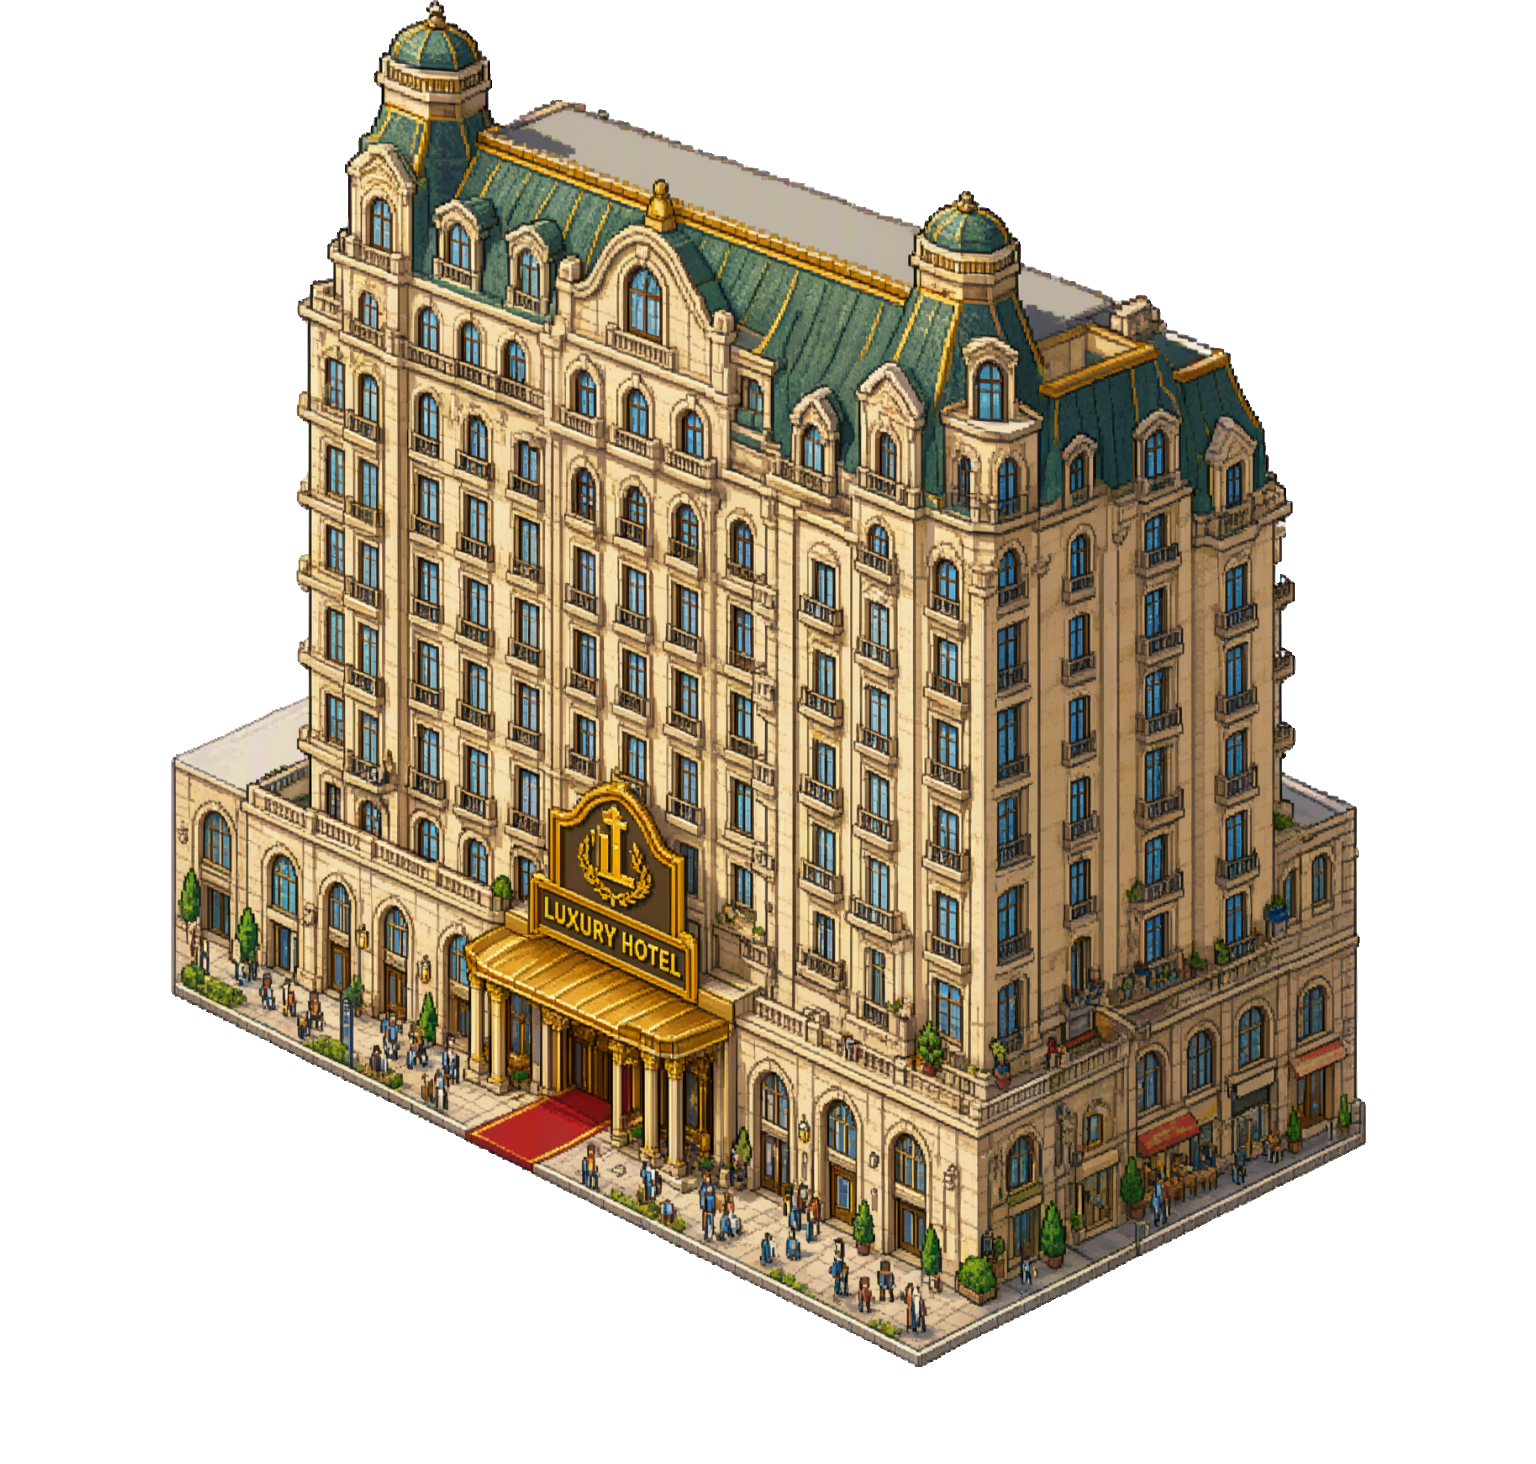
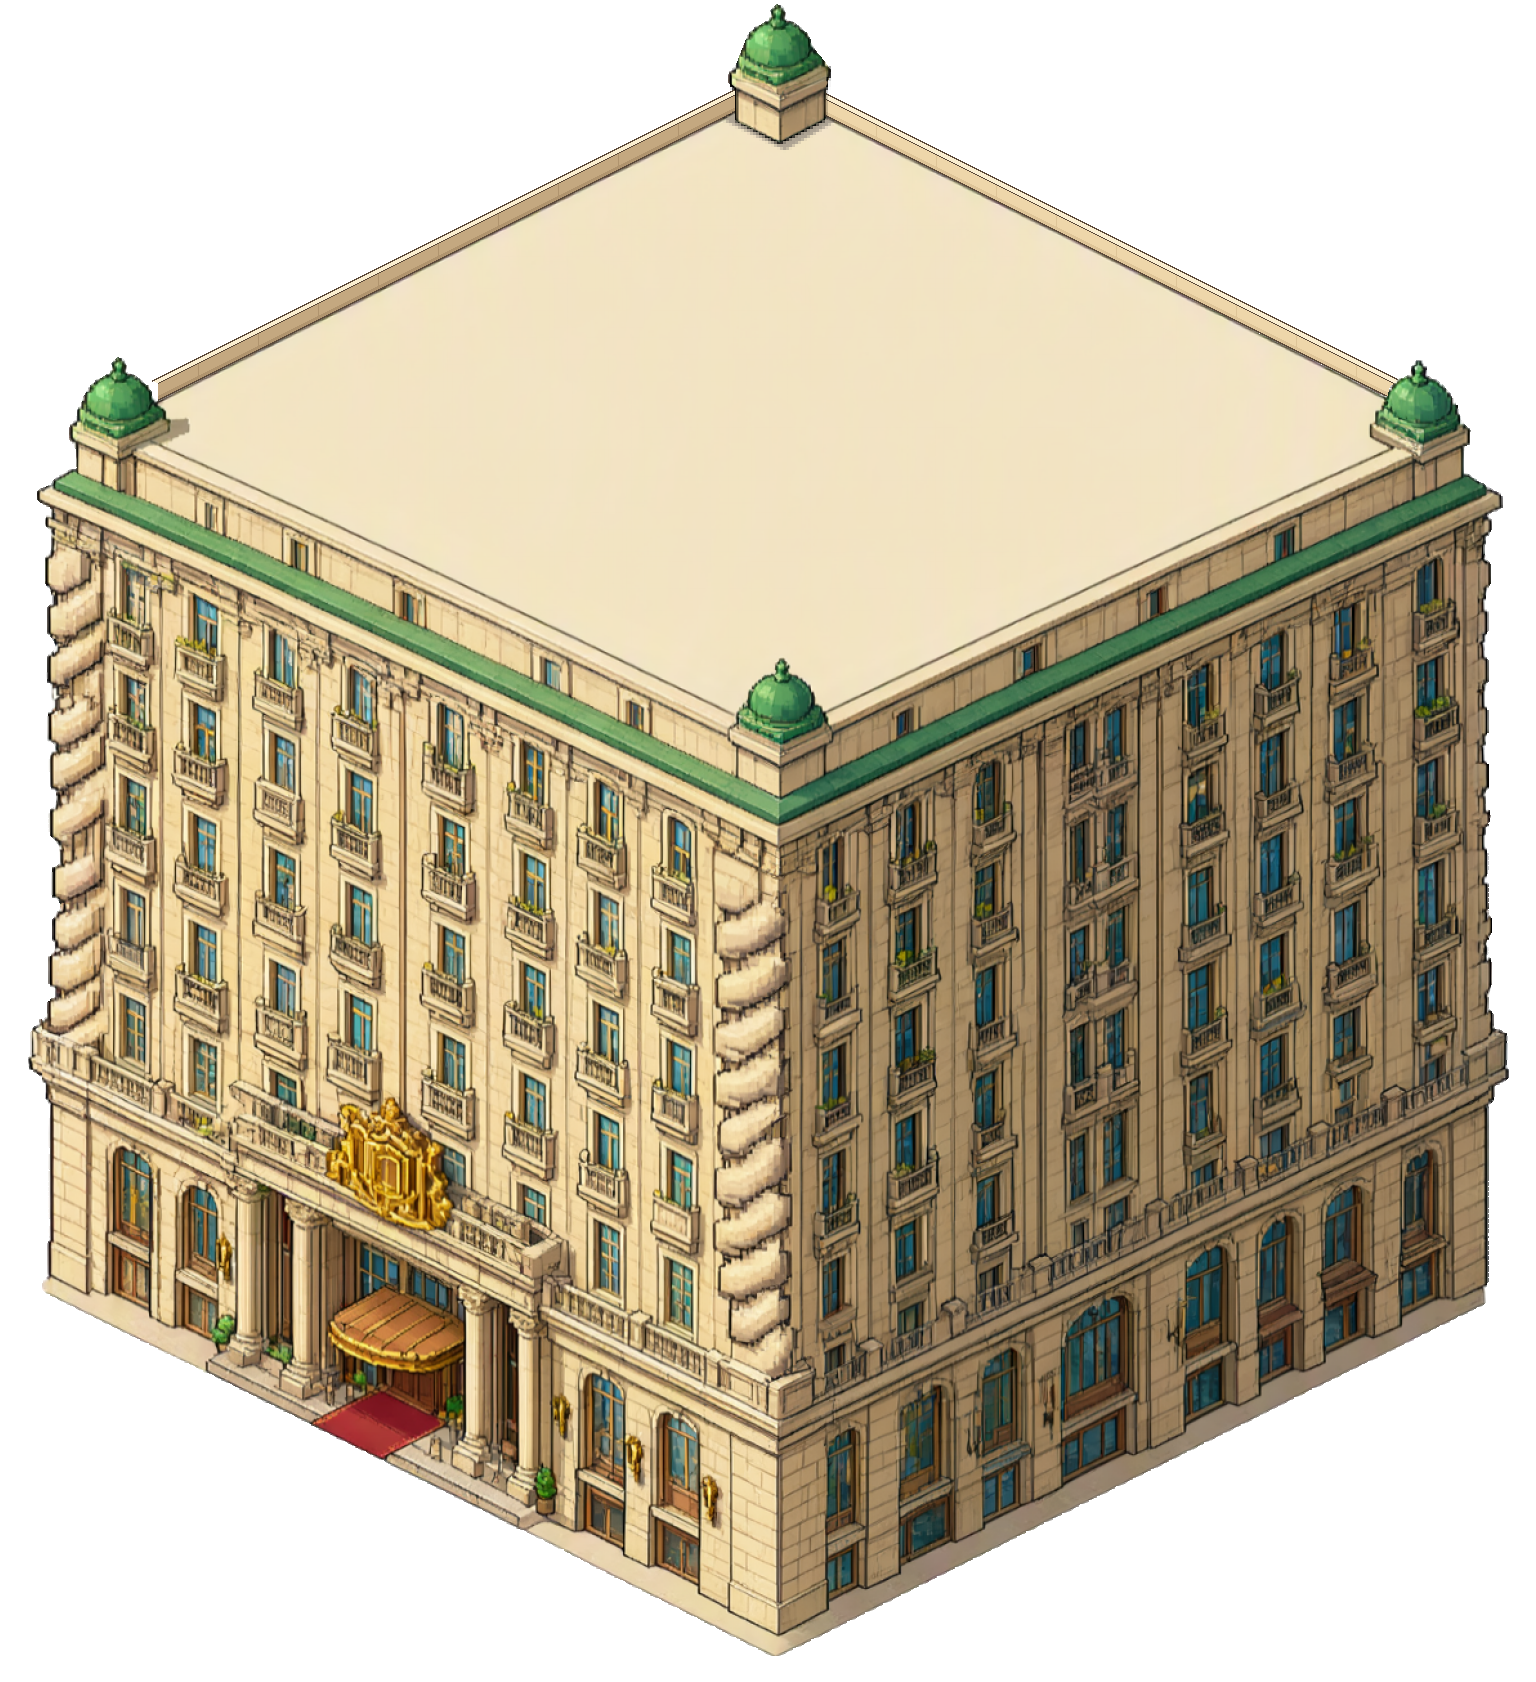
h

diff --git a/src/world/DayNight.js b/src/world/DayNight.js
@@ -249,7 +249,8 @@ export class DayNight {
 
   makeVehicleLights(e) {
     const add = (key, tint, blend = Phaser.BlendModes.ADD) => this.glowImage(0, 0, key).setTint(tint).setBlendMode(blend);
-    if (e.kind === 'car') return [add('fx_beam', 0xfff2c4), add('fx_glow', 0xff2a1a), add('fx_glow', 0xff2a1a)];
+    // the beam is held by its narrow end, so it starts at the front of the car and only shines forward
+    if (e.kind === 'car') return [add('fx_beam', 0xfff2c4).setOrigin(0, 0.5), add('fx_glow', 0xff2a1a), add('fx_glow', 0xff2a1a)];
     if (e.kind === 'air') return [add('fx_glow', 0xff3020), add('fx_glow', 0xffffff)];
     return [add('fx_glow', WARM), add('fx_glow', 0xff3020)];
   }
@@ -282,8 +283,8 @@ export class DayNight {
       const [l0, l1, l2] = e.ims;
       if (e.kind === 'car') {
         // headlight beam on the road ahead, two red tail lights
-        l0.setPosition(im.x + ux * s * 0.3, im.y + uy * s * 0.3).setRotation(Math.atan2(uy, ux))
-          .setScale((s * 1.3) / 64, (s * 0.7) / 32).setDepth(im.depth - 0.01).setAlpha(0.5 * a).setVisible(true);
+        l0.setPosition(im.x + ux * s * 0.28, im.y + uy * s * 0.28).setRotation(Math.atan2(uy, ux))
+          .setScale((s * 1.1) / 64, (s * 0.7) / 32).setDepth(im.depth - 0.01).setAlpha(0.5 * a).setVisible(true);
         const bx = im.x - ux * s * 0.36;
         const by = im.y - uy * s * 0.36 - s * 0.1;
         const side = s * 0.1;
